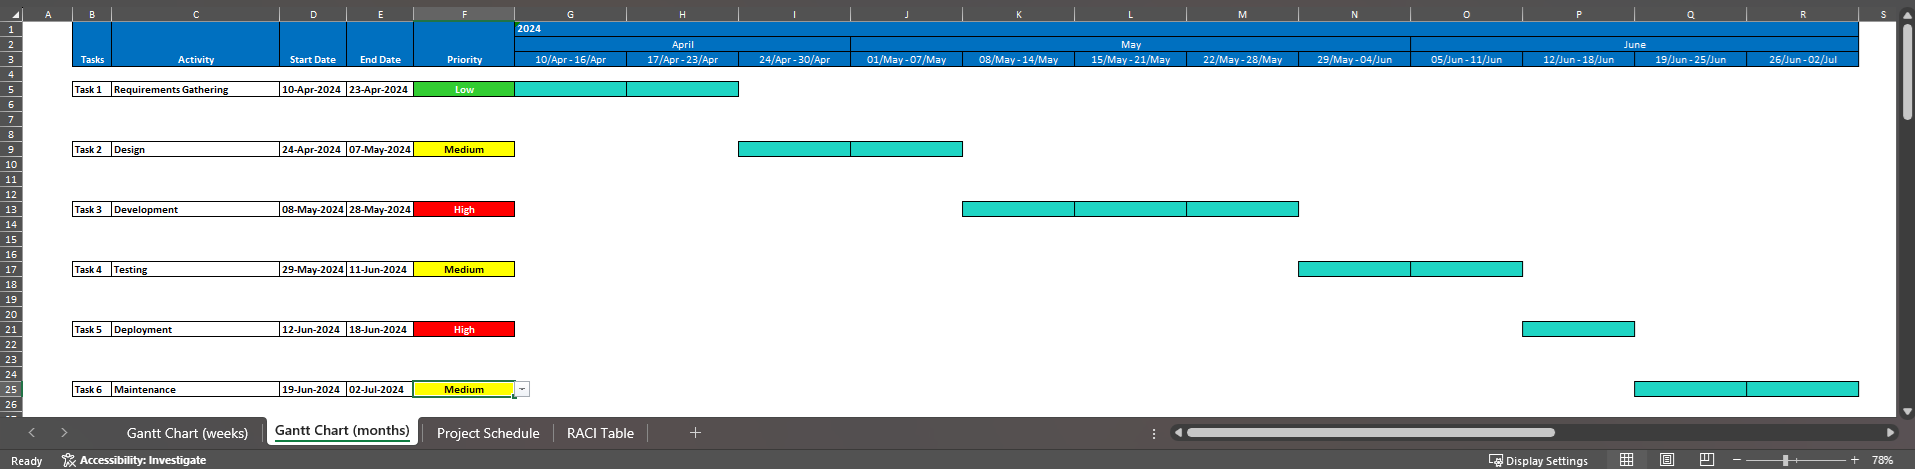
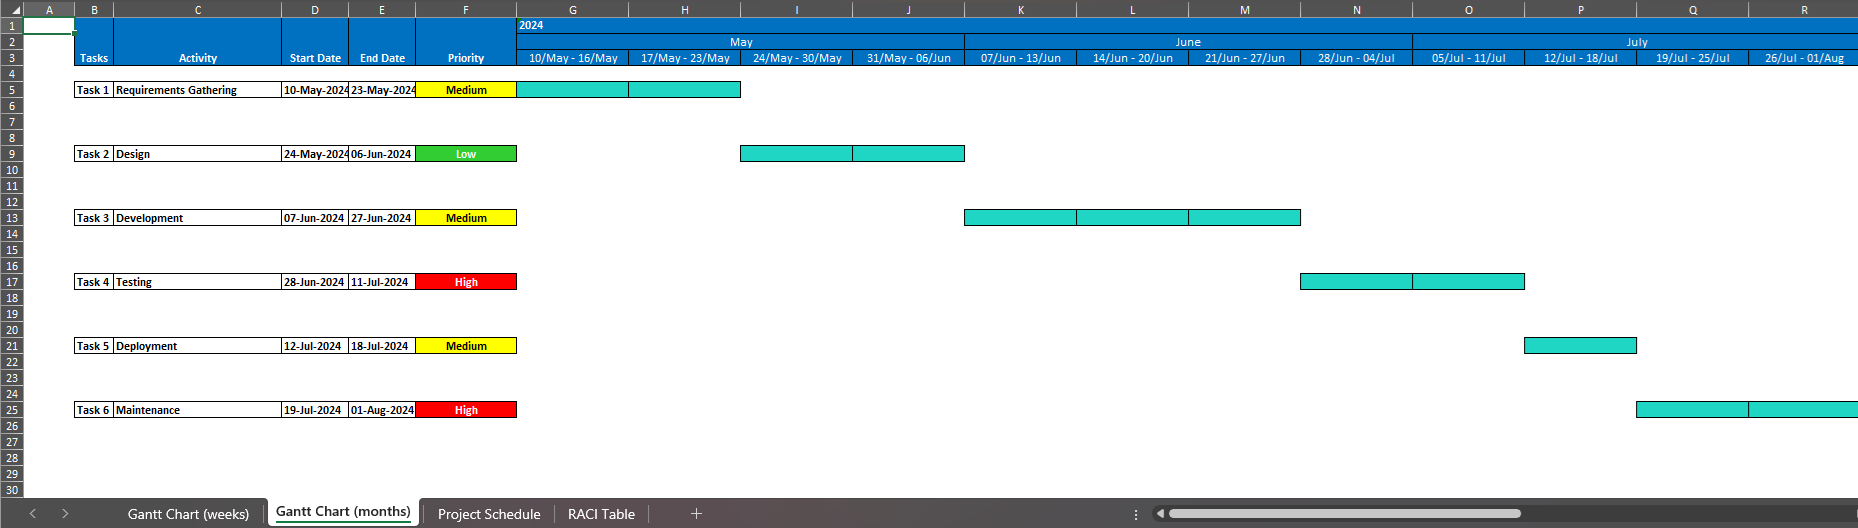
New test and gif

diff --git a/Input Test Including Priorities.md b/Input Test Including Priorities.md
@@ -1,0 +1,23 @@
+2024
+05/10
+Yes
+Requirements Gathering, Design, Development, Testing, Deployment, Maintenance 
+Initial Meeting, Stakeholder Interviews, Requirements Documentation 
+10 15 20 
+Medium, Low, Low 
+System Architecture Design, Database Schema Design, UI/UX Design 
+30 20 25 
+Low, Low, Low 
+Frontend Development, Backend Development, Integration 
+40 50 30 
+Medium, Medium, Medium 
+Unit Testing, Integration Testing, User Acceptance Testing 
+20 25 30 
+High, Medium, Low 
+Prepare Deployment Environment, Deployment, Post-Deployment Verification 
+15 10 10 
+Medium, Low, Low 
+Bug Fixing, Performance Tuning, User Training 
+20 15 10 
+High, High, Low 
+No

diff --git a/README.md b/README.md
@@ -1,9 +1,9 @@
 # Project Management Excel Tools (PMXT) 
 
 Generates a visual chronogram, project schedule and RACI Table automatically in Excel, mapping out Milestones and task with hours across workweeks to aid in project management.
-- ![Chronogram Weekly](./Gantt_Chart_Weeks.png)
-- ![Project Schedule](./Project_Schedule.png)
-- ![Raci Table](./RACI_Table.png)
+- ![Generated Gantt Chart](./Gantt_Chart_Gif.gif)
+- ![Generated Project Schedule](./Project_Schedule.png)
+- ![Generated Raci Table](./RACI_Table.png)
 
 ## Purpose
 
